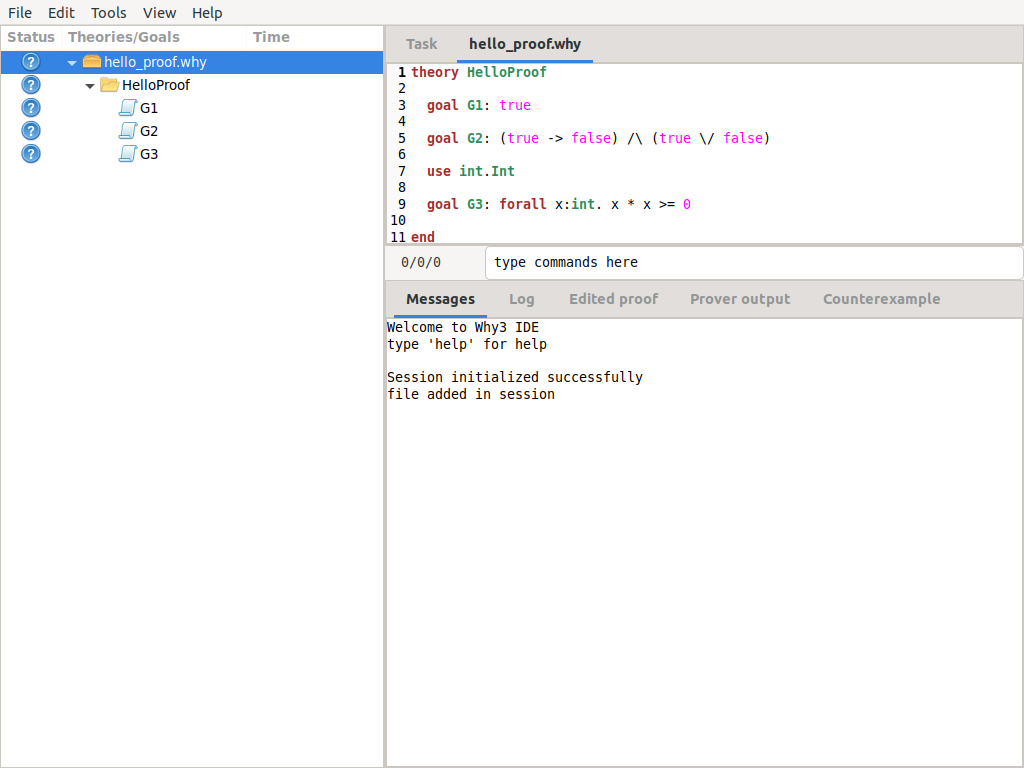
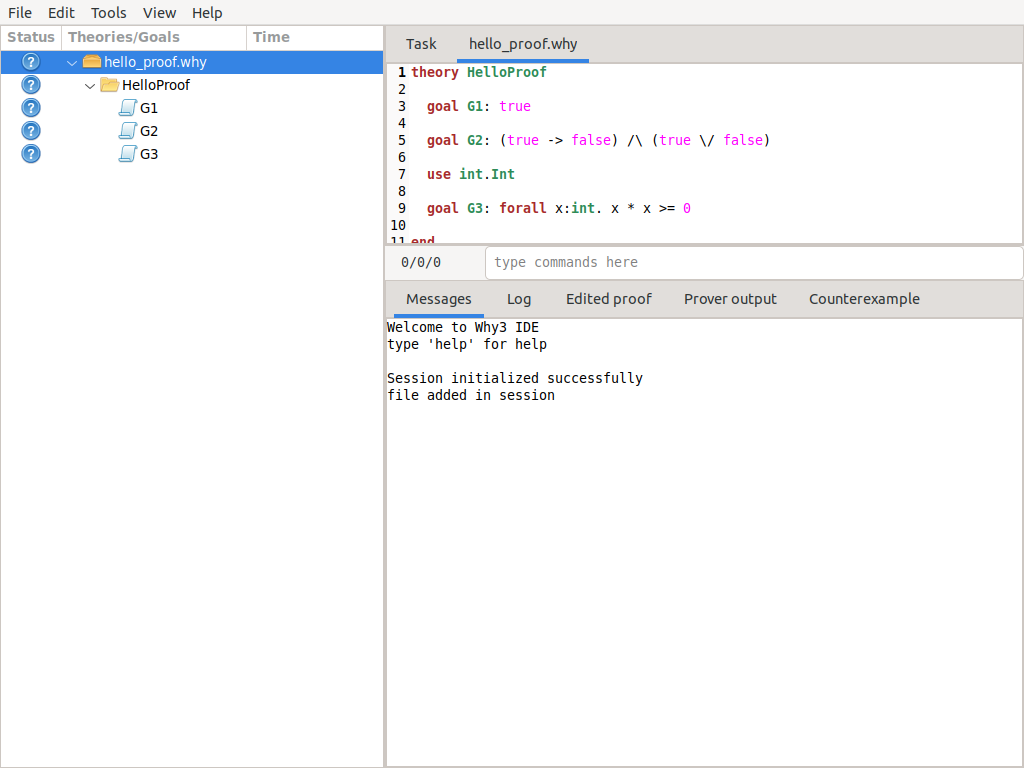
Update documentation pictures.

diff --git a/doc/starting.rst b/doc/starting.rst
@@ -49,7 +49,7 @@ and check the validity of goals with external provers, in a friendly
 way. This section presents the basic use of this GUI. Please refer to
 :numref:`sec.ideref` for a more complete description.
 
-.. %EXECUTE bin/why3 ide --batch="snap doc/images/gui-1.png" doc/hello_proof.why
+.. %EXECUTE bin/why3 ide --batch="wait 1;snap doc/images/gui-1.png" doc/hello_proof.why
 
 .. _fig.gui1:
 
